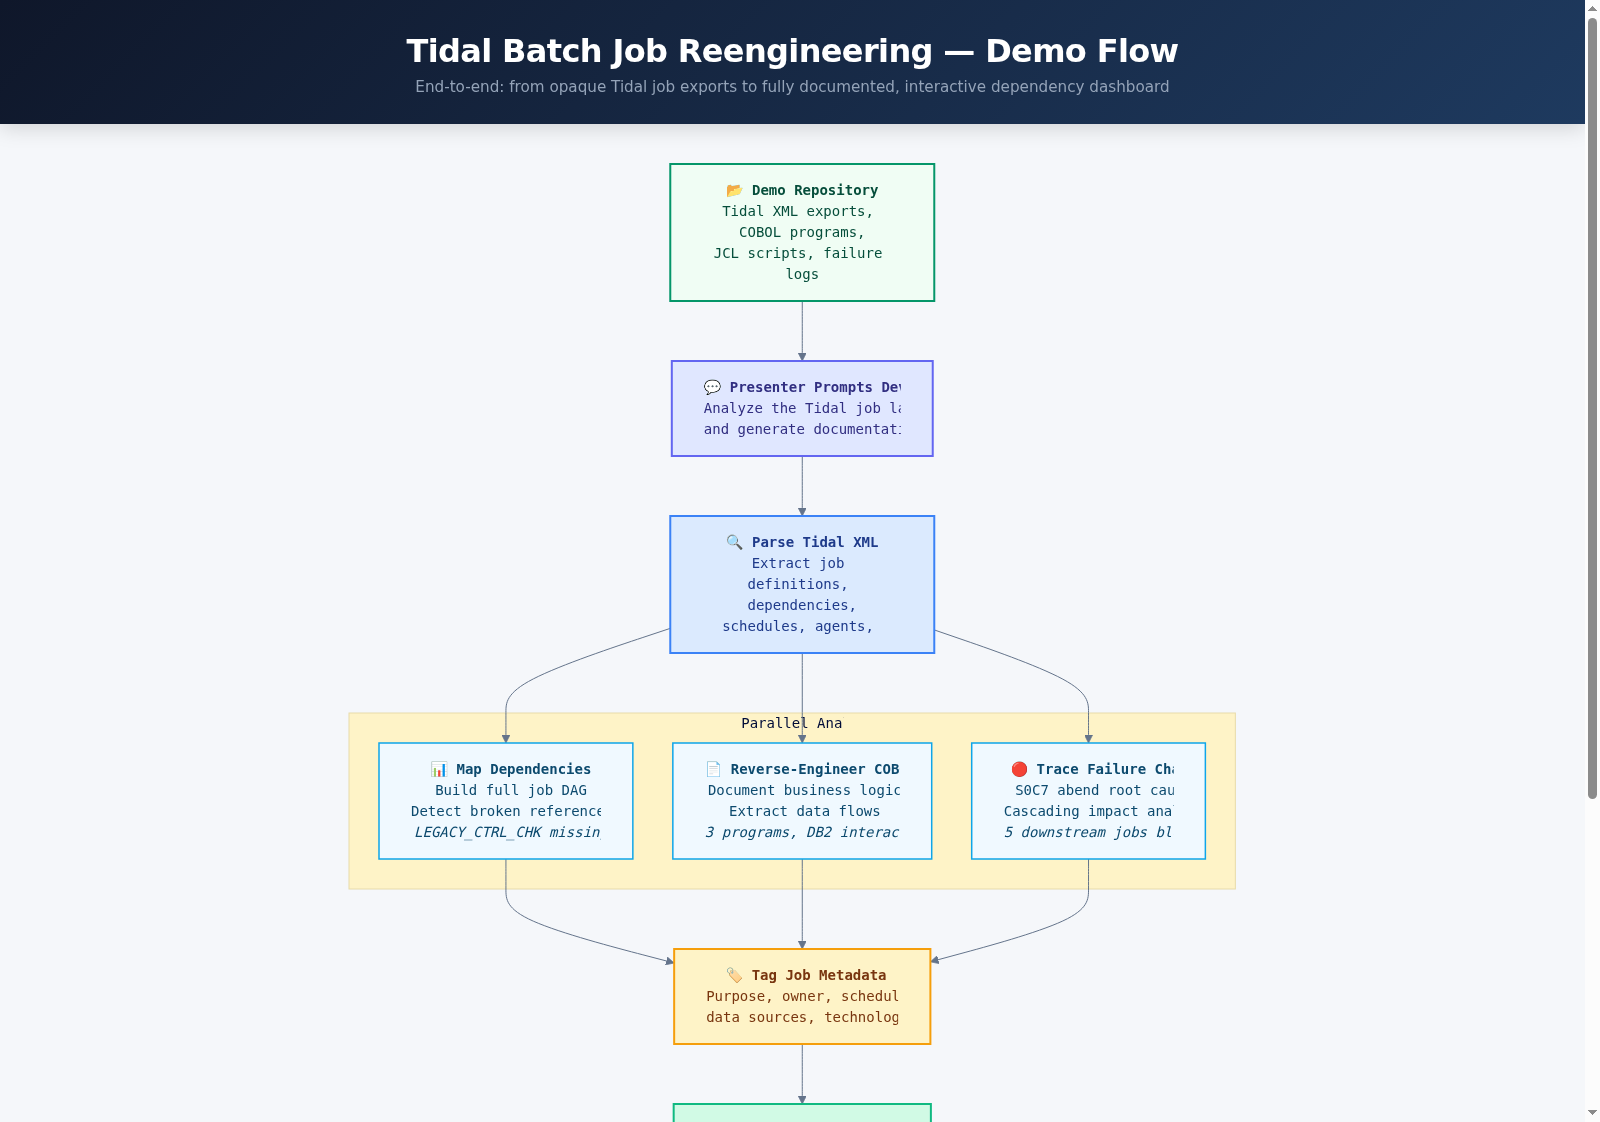
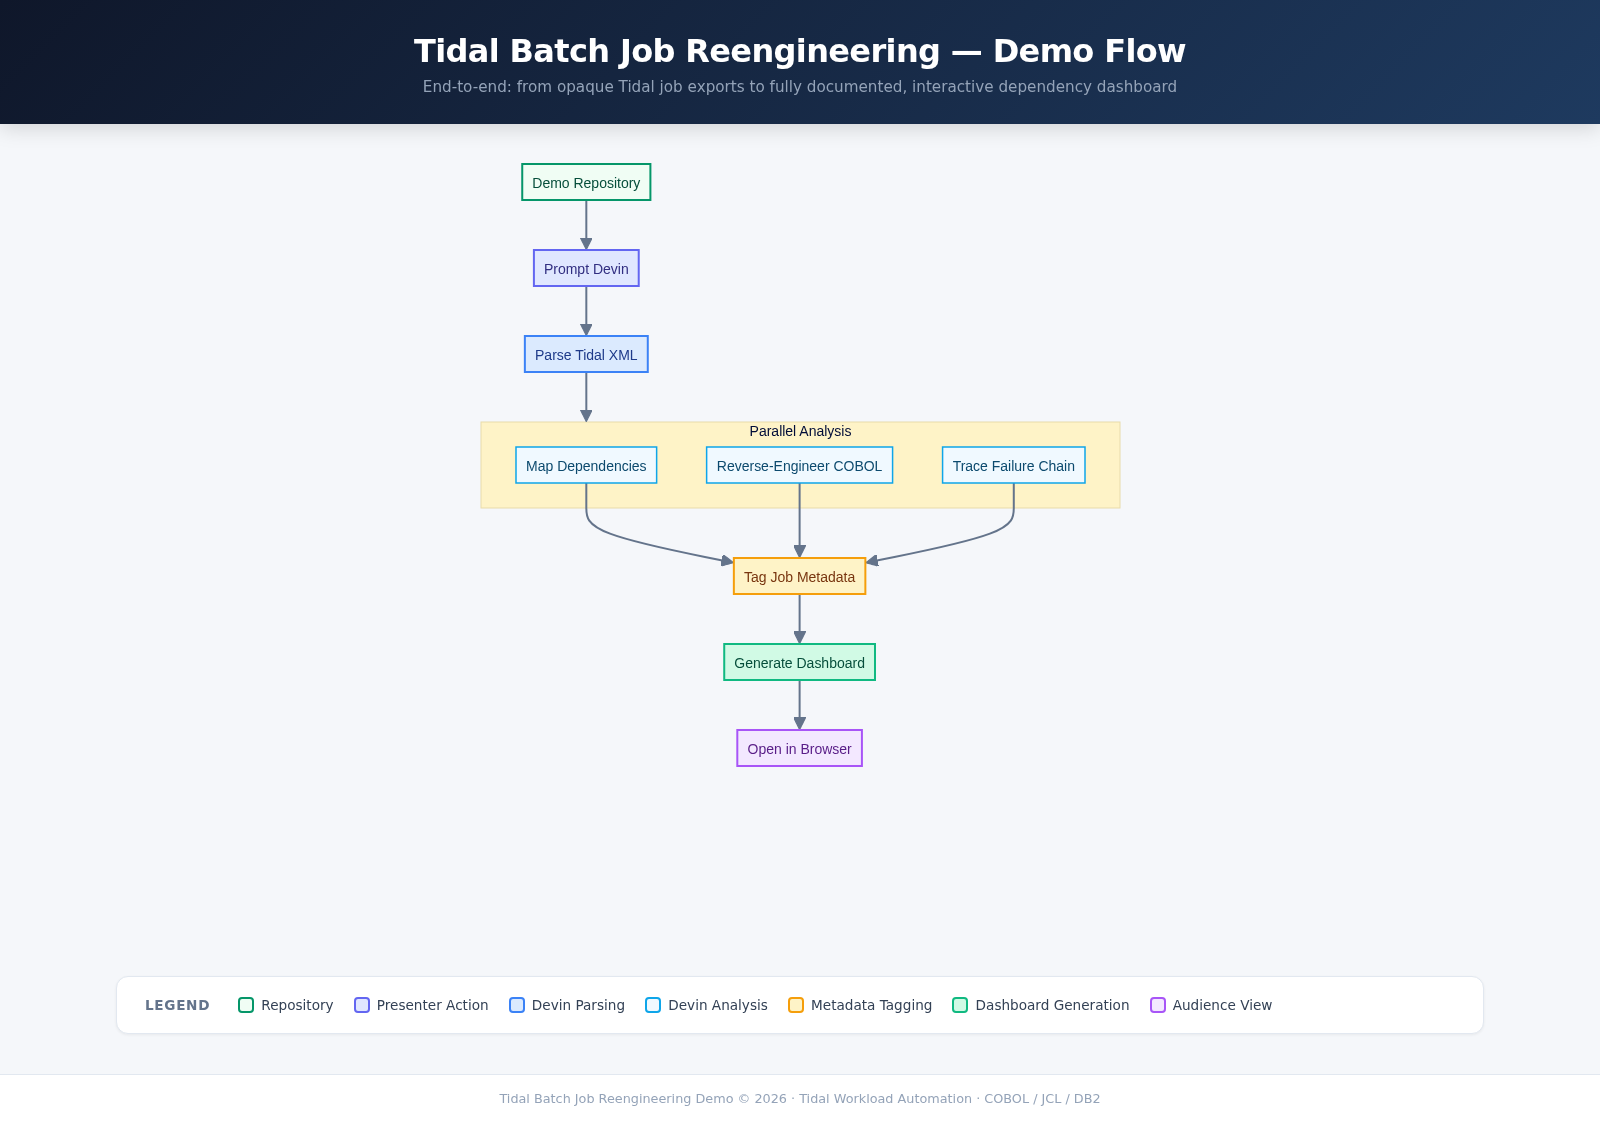
Fix flowchart: prevent Mermaid node text clipping, add inline Mermaid to README
- Use htmlLabels: false to avoid SVG foreignObject width mismatch
- Remove custom fontFamily from themeVariables (prevents font measurement bugs)
- Keep node labels short and single-line
- Re-render flowchart.png with all text fully visible
- Add inline Mermaid code block in README as fallback
- Make PNG clickable (links to HTML version)

diff --git a/docs/flowchart.html b/docs/flowchart.html
@@ -4,6 +4,7 @@
   <meta charset="UTF-8" />
   <meta name="viewport" content="width=device-width, initial-scale=1.0" />
   <title>Tidal Batch Job Reengineering &mdash; Demo Flow</title>
+  <script src="https://cdn.jsdelivr.net/npm/mermaid@10.9.3/dist/mermaid.min.js"></script>
   <style>
     *, *::before, *::after { box-sizing: border-box; margin: 0; padding: 0; }
 
@@ -50,7 +51,11 @@
       overflow-x: auto;
     }
 
-    .mermaid svg { margin: 0 auto; display: block; }
+    .mermaid { text-align: center; }
+    .mermaid svg {
+      margin: 0 auto;
+      display: block;
+    }
 
     .legend {
       width: 100%;
@@ -126,51 +131,39 @@
     'secondaryColor':    '#f0fdf4',
     'tertiaryColor':     '#fef3c7',
     'lineColor':         '#64748b',
-    'fontSize':          '14px',
-    'fontFamily':        'Segoe UI, system-ui, sans-serif',
-    'nodeTextColor':     '#1e293b'
+    'fontSize':          '14px'
   }
 }}%%
 
 flowchart TD
-  %% ── Starting State ──
-  REPO["📂 <b>Demo Repository</b><br/>Tidal XML exports, COBOL programs,<br/>JCL scripts, failure logs<br/><i>20 interconnected batch jobs</i>"]
-  PROMPT["💬 <b>Presenter Prompts Devin</b><br/>Analyze the Tidal job landscape<br/>and generate documentation"]
+  REPO[Demo Repository]
+  PROMPT[Prompt Devin]
+  PARSE[Parse Tidal XML]
 
-  %% ── Devin Analysis Phase ──
-  PARSE["🔍 <b>Parse Tidal XML</b><br/>Extract job definitions, dependencies,<br/>schedules, agents, variables<br/><i>tes: namespace, 4 job groups</i>"]
-
-  subgraph ANALYSIS ["  Parallel Analysis  "]
-    direction TB
-    DEP["📊 <b>Map Dependencies</b><br/>Build full job DAG<br/>Detect broken references<br/><i>LEGACY_CTRL_CHK missing</i>"]
-    COBOL["📄 <b>Reverse-Engineer COBOL</b><br/>Document business logic<br/>Extract data flows<br/><i>3 programs, DB2 interactions</i>"]
-    FAIL["🔴 <b>Trace Failure Chain</b><br/>S0C7 abend root cause<br/>Cascading impact analysis<br/><i>5 downstream jobs blocked</i>"]
+  subgraph PAR [Parallel Analysis]
+    direction LR
+    DEP[Map Dependencies]
+    COBOL[Reverse-Engineer COBOL]
+    FAIL[Trace Failure Chain]
   end
 
-  TAG["🏷 <b>Tag Job Metadata</b><br/>Purpose, owner, schedule,<br/>data sources, technology stack"]
+  TAG[Tag Job Metadata]
+  DASH[Generate Dashboard]
+  BROWSER[Open in Browser]
 
-  %% ── Output Phase ──
-  DASH["📈 <b>Generate Dashboard</b><br/>Interactive HTML with Mermaid<br/>dependency graph, job cards,<br/>failure trace visualization"]
-
-  BROWSER["🌐 <b>Open in Browser</b><br/>Presenter shows audience<br/>the complete job landscape"]
-
-  %% ── Connections ──
   REPO --> PROMPT
   PROMPT --> PARSE
-  PARSE --> DEP
-  PARSE --> COBOL
-  PARSE --> FAIL
+  PARSE --> PAR
   DEP --> TAG
   COBOL --> TAG
   FAIL --> TAG
   TAG --> DASH
   DASH --> BROWSER
 
-  %% ── Styles ──
   classDef repoNode    fill:#f0fdf4,stroke:#059669,stroke-width:2px,color:#064e3b
   classDef promptNode  fill:#e0e7ff,stroke:#6366f1,stroke-width:2px,color:#312e81
   classDef parseNode   fill:#dbeafe,stroke:#3b82f6,stroke-width:2px,color:#1e3a8a
-  classDef analysis    fill:#f0f9ff,stroke:#0ea5e9,stroke-width:1.5px,color:#0c4a6e
+  classDef analysisNode fill:#f0f9ff,stroke:#0ea5e9,stroke-width:1.5px,color:#0c4a6e
   classDef tagNode     fill:#fef3c7,stroke:#f59e0b,stroke-width:2px,color:#78350f
   classDef dashNode    fill:#d1fae5,stroke:#10b981,stroke-width:2px,color:#064e3b
   classDef browserNode fill:#f3e8ff,stroke:#a855f7,stroke-width:2px,color:#581c87
@@ -178,7 +171,7 @@ flowchart TD
   class REPO repoNode
   class PROMPT promptNode
   class PARSE parseNode
-  class DEP,COBOL,FAIL analysis
+  class DEP,COBOL,FAIL analysisNode
   class TAG tagNode
   class DASH dashNode
   class BROWSER browserNode
@@ -189,7 +182,7 @@ flowchart TD
   <section class="legend">
     <div class="legend-inner">
       <span class="legend-title">Legend</span>
-      <span class="legend-item"><span class="legend-swatch" style="background:#f0fdf4;border:2px solid #059669;"></span> Repository (Before State)</span>
+      <span class="legend-item"><span class="legend-swatch" style="background:#f0fdf4;border:2px solid #059669;"></span> Repository</span>
       <span class="legend-item"><span class="legend-swatch" style="background:#e0e7ff;border:2px solid #6366f1;"></span> Presenter Action</span>
       <span class="legend-item"><span class="legend-swatch" style="background:#dbeafe;border:2px solid #3b82f6;"></span> Devin Parsing</span>
       <span class="legend-item"><span class="legend-swatch" style="background:#f0f9ff;border:2px solid #0ea5e9;"></span> Devin Analysis</span>
@@ -203,18 +196,15 @@ flowchart TD
     Tidal Batch Job Reengineering Demo &copy; 2026 &middot; Tidal Workload Automation &middot; COBOL / JCL / DB2
   </footer>
 
-  <script type="module">
-    import mermaid from 'https://cdn.jsdelivr.net/npm/mermaid@11/dist/mermaid.esm.min.mjs';
+  <script>
     mermaid.initialize({
       startOnLoad: true,
       securityLevel: 'loose',
       flowchart: {
-        htmlLabels: true,
+        htmlLabels: false,
         curve: 'basis',
-        rankSpacing: 60,
-        nodeSpacing: 40,
-        padding: 16,
-        useMaxWidth: false
+        useMaxWidth: false,
+        padding: 20
       }
     });
   </script>

diff --git a/README.md b/README.md
@@ -2,9 +2,57 @@
 
 AI agent reverse-engineers Tidal Workload Automation batch job workflows, maps dependencies, traces failures, and generates an interactive documentation dashboard.
 
-![Demo Flowchart](docs/flowchart.png)
+[![Demo Flowchart](docs/flowchart.png)](docs/flowchart.html)
 
-[View interactive flowchart](docs/flowchart.html)
+<details>
+<summary>View inline flowchart</summary>
+
+```mermaid
+flowchart TD
+  REPO[Demo Repository]
+  PROMPT[Prompt Devin]
+  PARSE[Parse Tidal XML]
+
+  subgraph PAR [Parallel Analysis]
+    direction LR
+    DEP[Map Dependencies]
+    COBOL[Reverse-Engineer COBOL]
+    FAIL[Trace Failure Chain]
+  end
+
+  TAG[Tag Job Metadata]
+  DASH[Generate Dashboard]
+  BROWSER[Open in Browser]
+
+  REPO --> PROMPT
+  PROMPT --> PARSE
+  PARSE --> PAR
+  DEP --> TAG
+  COBOL --> TAG
+  FAIL --> TAG
+  TAG --> DASH
+  DASH --> BROWSER
+
+  classDef repoNode    fill:#f0fdf4,stroke:#059669,stroke-width:2px,color:#064e3b
+  classDef promptNode  fill:#e0e7ff,stroke:#6366f1,stroke-width:2px,color:#312e81
+  classDef parseNode   fill:#dbeafe,stroke:#3b82f6,stroke-width:2px,color:#1e3a8a
+  classDef analysisNode fill:#f0f9ff,stroke:#0ea5e9,stroke-width:1.5px,color:#0c4a6e
+  classDef tagNode     fill:#fef3c7,stroke:#f59e0b,stroke-width:2px,color:#78350f
+  classDef dashNode    fill:#d1fae5,stroke:#10b981,stroke-width:2px,color:#064e3b
+  classDef browserNode fill:#f3e8ff,stroke:#a855f7,stroke-width:2px,color:#581c87
+
+  class REPO repoNode
+  class PROMPT promptNode
+  class PARSE parseNode
+  class DEP,COBOL,FAIL analysisNode
+  class TAG tagNode
+  class DASH dashNode
+  class BROWSER browserNode
+```
+
+</details>
+
+[View interactive flowchart (HTML)](docs/flowchart.html)
 
 ## What This Demo Shows
 
